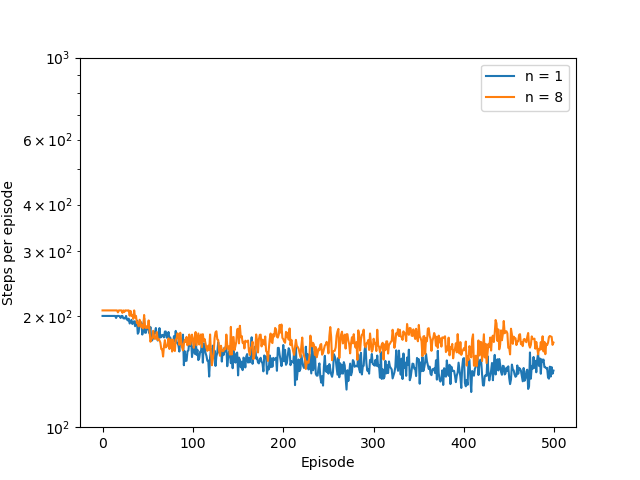
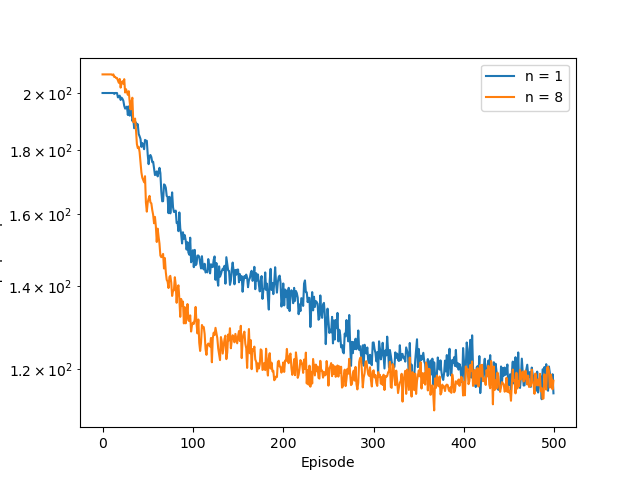
refactor code

diff --git a/chapter-10/mountain_car.py b/chapter-10/mountain_car.py
@@ -21,15 +21,17 @@ class ValueFunction:
         self.n_tilings = n_tilings
         self.position_scale = n_tilings / (env.high[0] - env.low[0])
         self.velocity_scale = n_tilings / (env.high[1] - env.low[1])
-        # size = math.ceil((position_scale + 1) * (velocity_scale + 1) * n_tilings)
-        self.iht = IHT(4096)
-        self.w = np.zeros(4096)
+        # size = math.ceil((self.position_scale + 1) * (self.velocity_scale + 1) * n_tilings)
+        size = 4096
+        self.iht = IHT(size)
+        self.w = np.zeros(size)
         self.env = env
 
 
     def get_active_tiles(self, position, velocity, action):
         '''
-        Get active tile corresponding to state-action pair [[@position, @velocity], @action]
+        Get (indices of) active tiles corresponding to 
+        state-action pair [[@position, @velocity], @action]
         (i.e., index of the tile in each tilings where the value = 1)
 
         Params
@@ -53,7 +55,8 @@ class ValueFunction:
     def get_value(self, position, velocity, action):
         '''
         Get action-value of state-action pair [[@position, @velocity], @action]
-        Since the feature vector is one-hot and we are using linear function approx
+        Since the feature vector is one-hot and 
+        we are using linear function approx
         => value at [[@position, @velocity], @action] is exactly the 
             total of weight corresponding to [[@position, @velocity], @action]
 
@@ -66,8 +69,6 @@ class ValueFunction:
         action: int
             action taken at the current state
         '''
-        if position == self.env.high[0]:
-            return 0
         active_tiles = self.get_active_tiles(position, velocity, action)
         return np.sum(self.w[active_tiles])
 
@@ -150,7 +151,7 @@ def episodic_semi_gradient_sarsa(value_function, env, alpha, gamma, epsilon,
     ------
     value_function: ValueFunction
         action-value function
-    env: OpenAI's MountainCar env
+    env: OpenAI's MountainCar
     alpha: float
         step size
     gamma: float
@@ -160,7 +161,7 @@ def episodic_semi_gradient_sarsa(value_function, env, alpha, gamma, epsilon,
     current_ep: int
         current epside
     n_eps: int
-        number of episodes
+        total number of episodes
     '''
     n_actions = env.action_space.n
     state = env.reset()
@@ -168,7 +169,7 @@ def episodic_semi_gradient_sarsa(value_function, env, alpha, gamma, epsilon,
         state[0], state[1], n_actions)
 
     while True:
-        if current_ep + 20 >= n_eps:
+        if current_ep + 10 >= n_eps:
             env.render()
 
         next_state, reward, terminated, _ = env.step(action)
@@ -186,7 +187,8 @@ def episodic_semi_gradient_sarsa(value_function, env, alpha, gamma, epsilon,
         action = next_action
 
 
-def episodic_semi_gradient_n_step_sarsa(value_function, env, n, alpha, gamma, epsilon):
+def episodic_semi_gradient_n_step_sarsa(value_function, env, n,
+                                    alpha, gamma, epsilon):
     '''
     Episodic Semi-gradient n-step Sarsa algorithm
 
@@ -194,7 +196,7 @@ def episodic_semi_gradient_n_step_sarsa(value_function, env, n, alpha, gamma, ep
     ------
     value_function: ValueFunction
         action-value function
-    env: OpenAI's MountainCar env
+    env: OpenAI's MountainCar
     n: int
         n-step
     alpha: float
@@ -249,7 +251,7 @@ def episodic_semi_gradient_sarsa_plot():
     n_eps = 9000
     alpha = 0.3
     gamma = 1
-    epsilon = 0
+    epsilon = 0.1
     n_tilings = 8
     plot_eps = [0, 99, 399, 999, 3999, n_eps - 1]
     fig = plt.figure(figsize=(24, 16))
@@ -288,13 +290,13 @@ def episodic_semi_gradient_sarsa_plot():
 
 
 def episodic_semi_gradient_n_step_sarsa_plot():
-    runs = 10
+    runs = 100
     n_eps = 500
     n_tilings = 8
     ns = [1, 8]
     alphas = [0.5, 0.3]
     gamma = 1
-    epsilon = 0.1
+    epsilon = 0
     env = gym.make('MountainCar-v0')
     env.reset()
 
@@ -313,7 +315,7 @@ def episodic_semi_gradient_n_step_sarsa_plot():
         plt.plot(steps[i], label='n = %d' % (ns[i]))
     plt.xlabel('Episode')
     plt.ylabel('Steps per episode')
-    plt.ylim([100, 1000])
+    # plt.ylim([100, 1000])
     plt.yscale('log')
     plt.legend()
 

diff --git a/chapter-10/access_control.py b/chapter-10/access_control.py
@@ -1,0 +1,97 @@
+import numpy as np
+import matplotlib.pyplot as plt
+from tqdm import trange
+import sys
+from os.path import dirname, join, realpath
+dir_path = dirname(dirname(realpath(__file__)))
+sys.path.insert(1, join(dir_path, 'utils'))
+from tile_coding import IHT, tiles
+
+class AccessControl:
+
+    def __init__(self, n_servers):
+        self.n_servers = n_servers
+        self.rewards = [1, 2, 4, 8]
+        self.action = [-1, 1]
+
+
+    def take_action(self, state, action):
+
+
+
+
+
+
+class ValueFunction:
+
+    def __init__(self, n_tilings):
+        self.n_tilings = n_tilings
+        self.w = np.zeros(2048)
+        self.iht = IHT(2048)
+
+
+    def get_active_tiles(self, state, action):
+        '''
+        Get active tiles
+
+        Params
+        ------
+        '''
+        active_tiles = tiles(self.iht, self.n_tilings, [state], [action])
+        return active_tiles
+
+
+    def get_value(self, state, action):
+        '''
+        Get value
+        '''
+        active_tiles = self.get_active_tiles(state, action)
+        return np.sum(self.w[active_tiles])
+
+
+    def learn(self, state, action, target, alpha):
+        '''
+        Update weight vector
+
+        Params
+        ------
+        state:
+        '''
+        active_tiles = self.get_active_tiles(state, action)
+        estimate = np.sum(self.w[active_tiles])
+        error = target - estimate
+        for tile in active_tiles:
+            self.w[tile] += alpha * error
+
+
+def epsilon_greedy(epsilon, value_function, env, state):
+    pass
+
+
+def differential_semi_gradient_sarsa(value_function, env, alpha, beta, gamma, epsilon):
+    '''
+    Differenntial Semi-gradient Sarsa algorithm
+
+    Params
+    ------
+    value_function: ValueFunction
+    env: AccessControl
+    alpha: float
+        step size param
+    gamma: float
+        discount factor
+    epsilon: float
+        epsilon greedy param
+    '''
+    pass
+
+
+if __name__ == '__main__':
+    alpha = 0.01
+    beta = 0.01
+    gamma = 1
+    epsilon = 0.1
+
+
+
+
